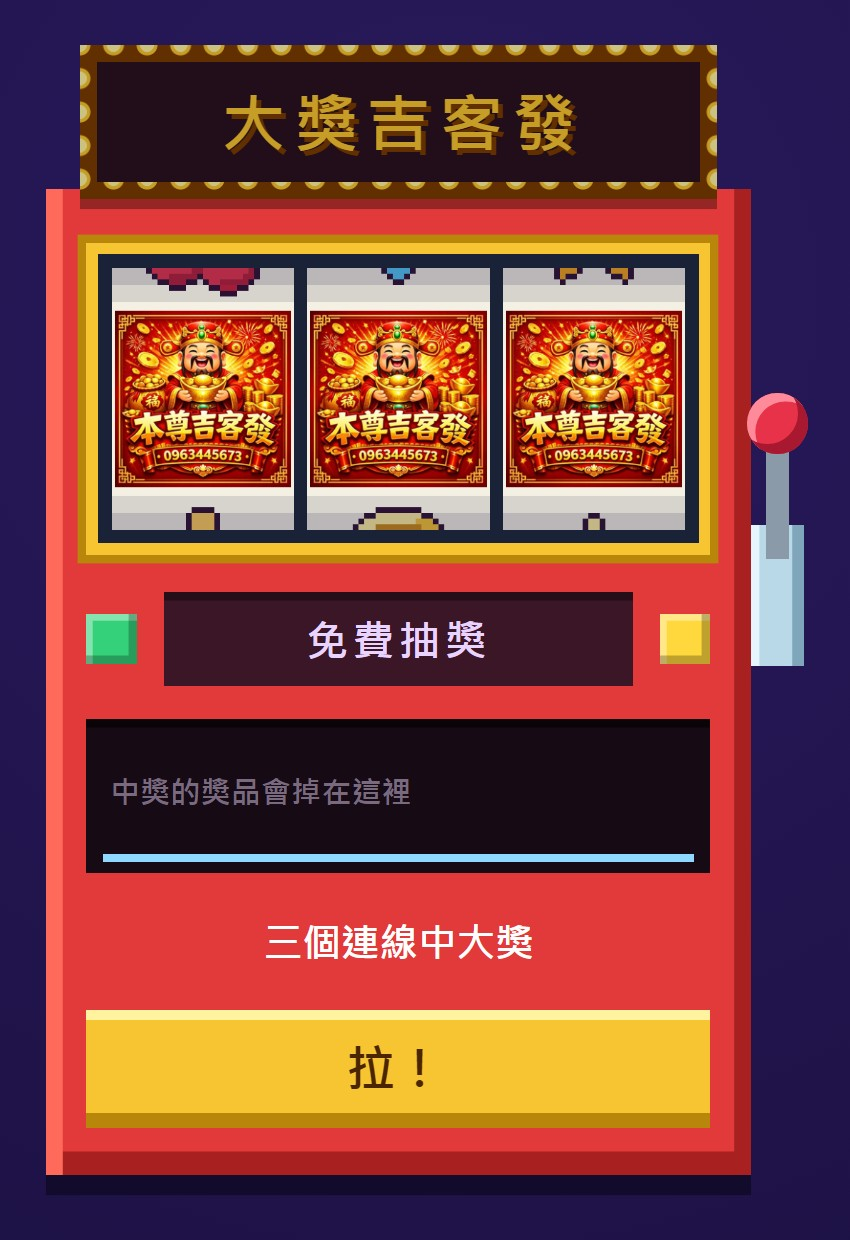
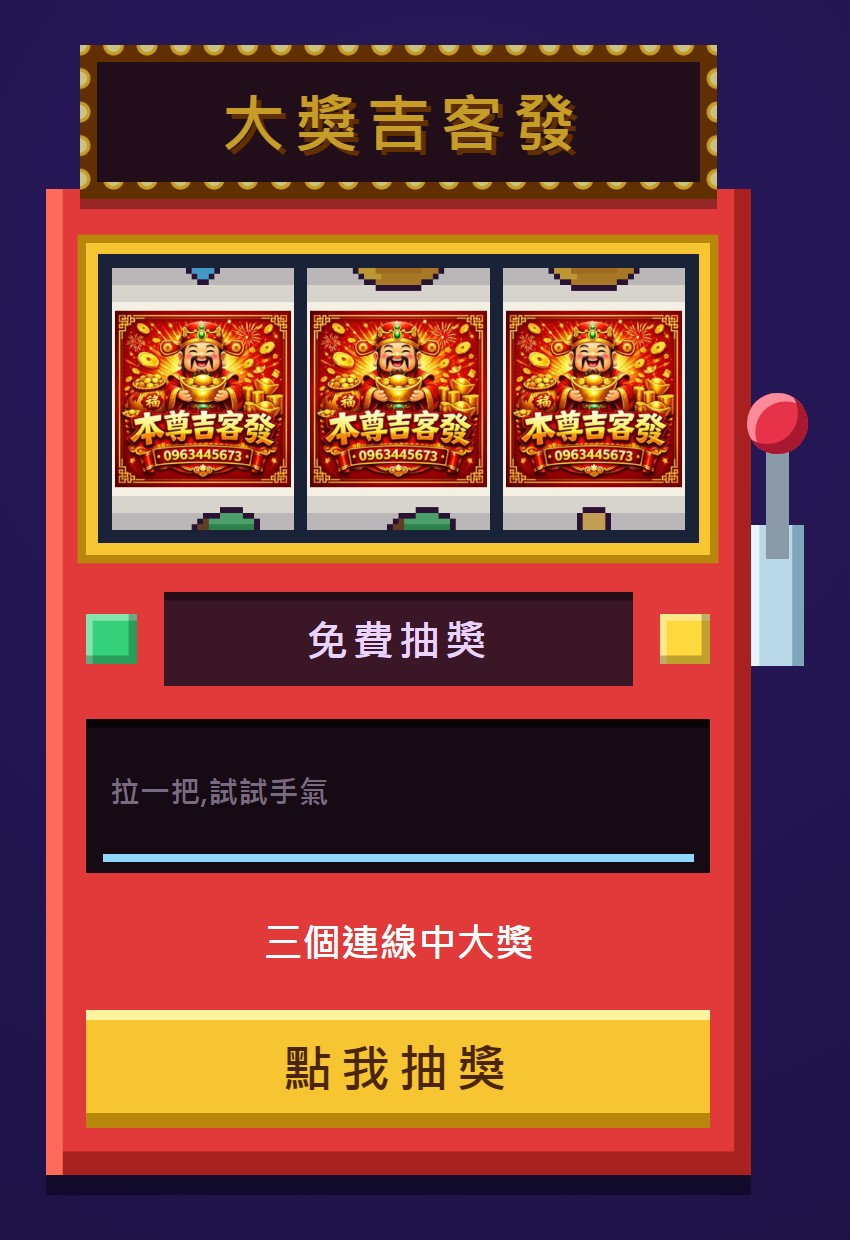
Card pictures: tall and square, call-to-action text

diff --git a/index.html b/index.html
@@ -635,6 +635,8 @@ if (CARD_MODE) {
   reels.forEach(r => { r.pos = r.strip.indexOf(0); drawReel(r); });
   el("counter").textContent = "免費抽獎";
   el("msg").textContent = "三個連線中大獎";
+  el("pull").textContent = "點我抽獎"; el("pull").style.letterSpacing = "0.15em";
+  const hint = document.querySelector("#tray .hint"); if (hint) hint.textContent = "拉一把,試試手氣";
 }
 /* 測試用:讓自動化檢查讀得到狀態 */
 window.__slot = { state: state, reels: reels, SYMBOLS: SYMBOLS, SPRITES: SPRITES, SHOP_ID: SHOP_ID, decideResult: decideResult, drawReel: drawReel };
